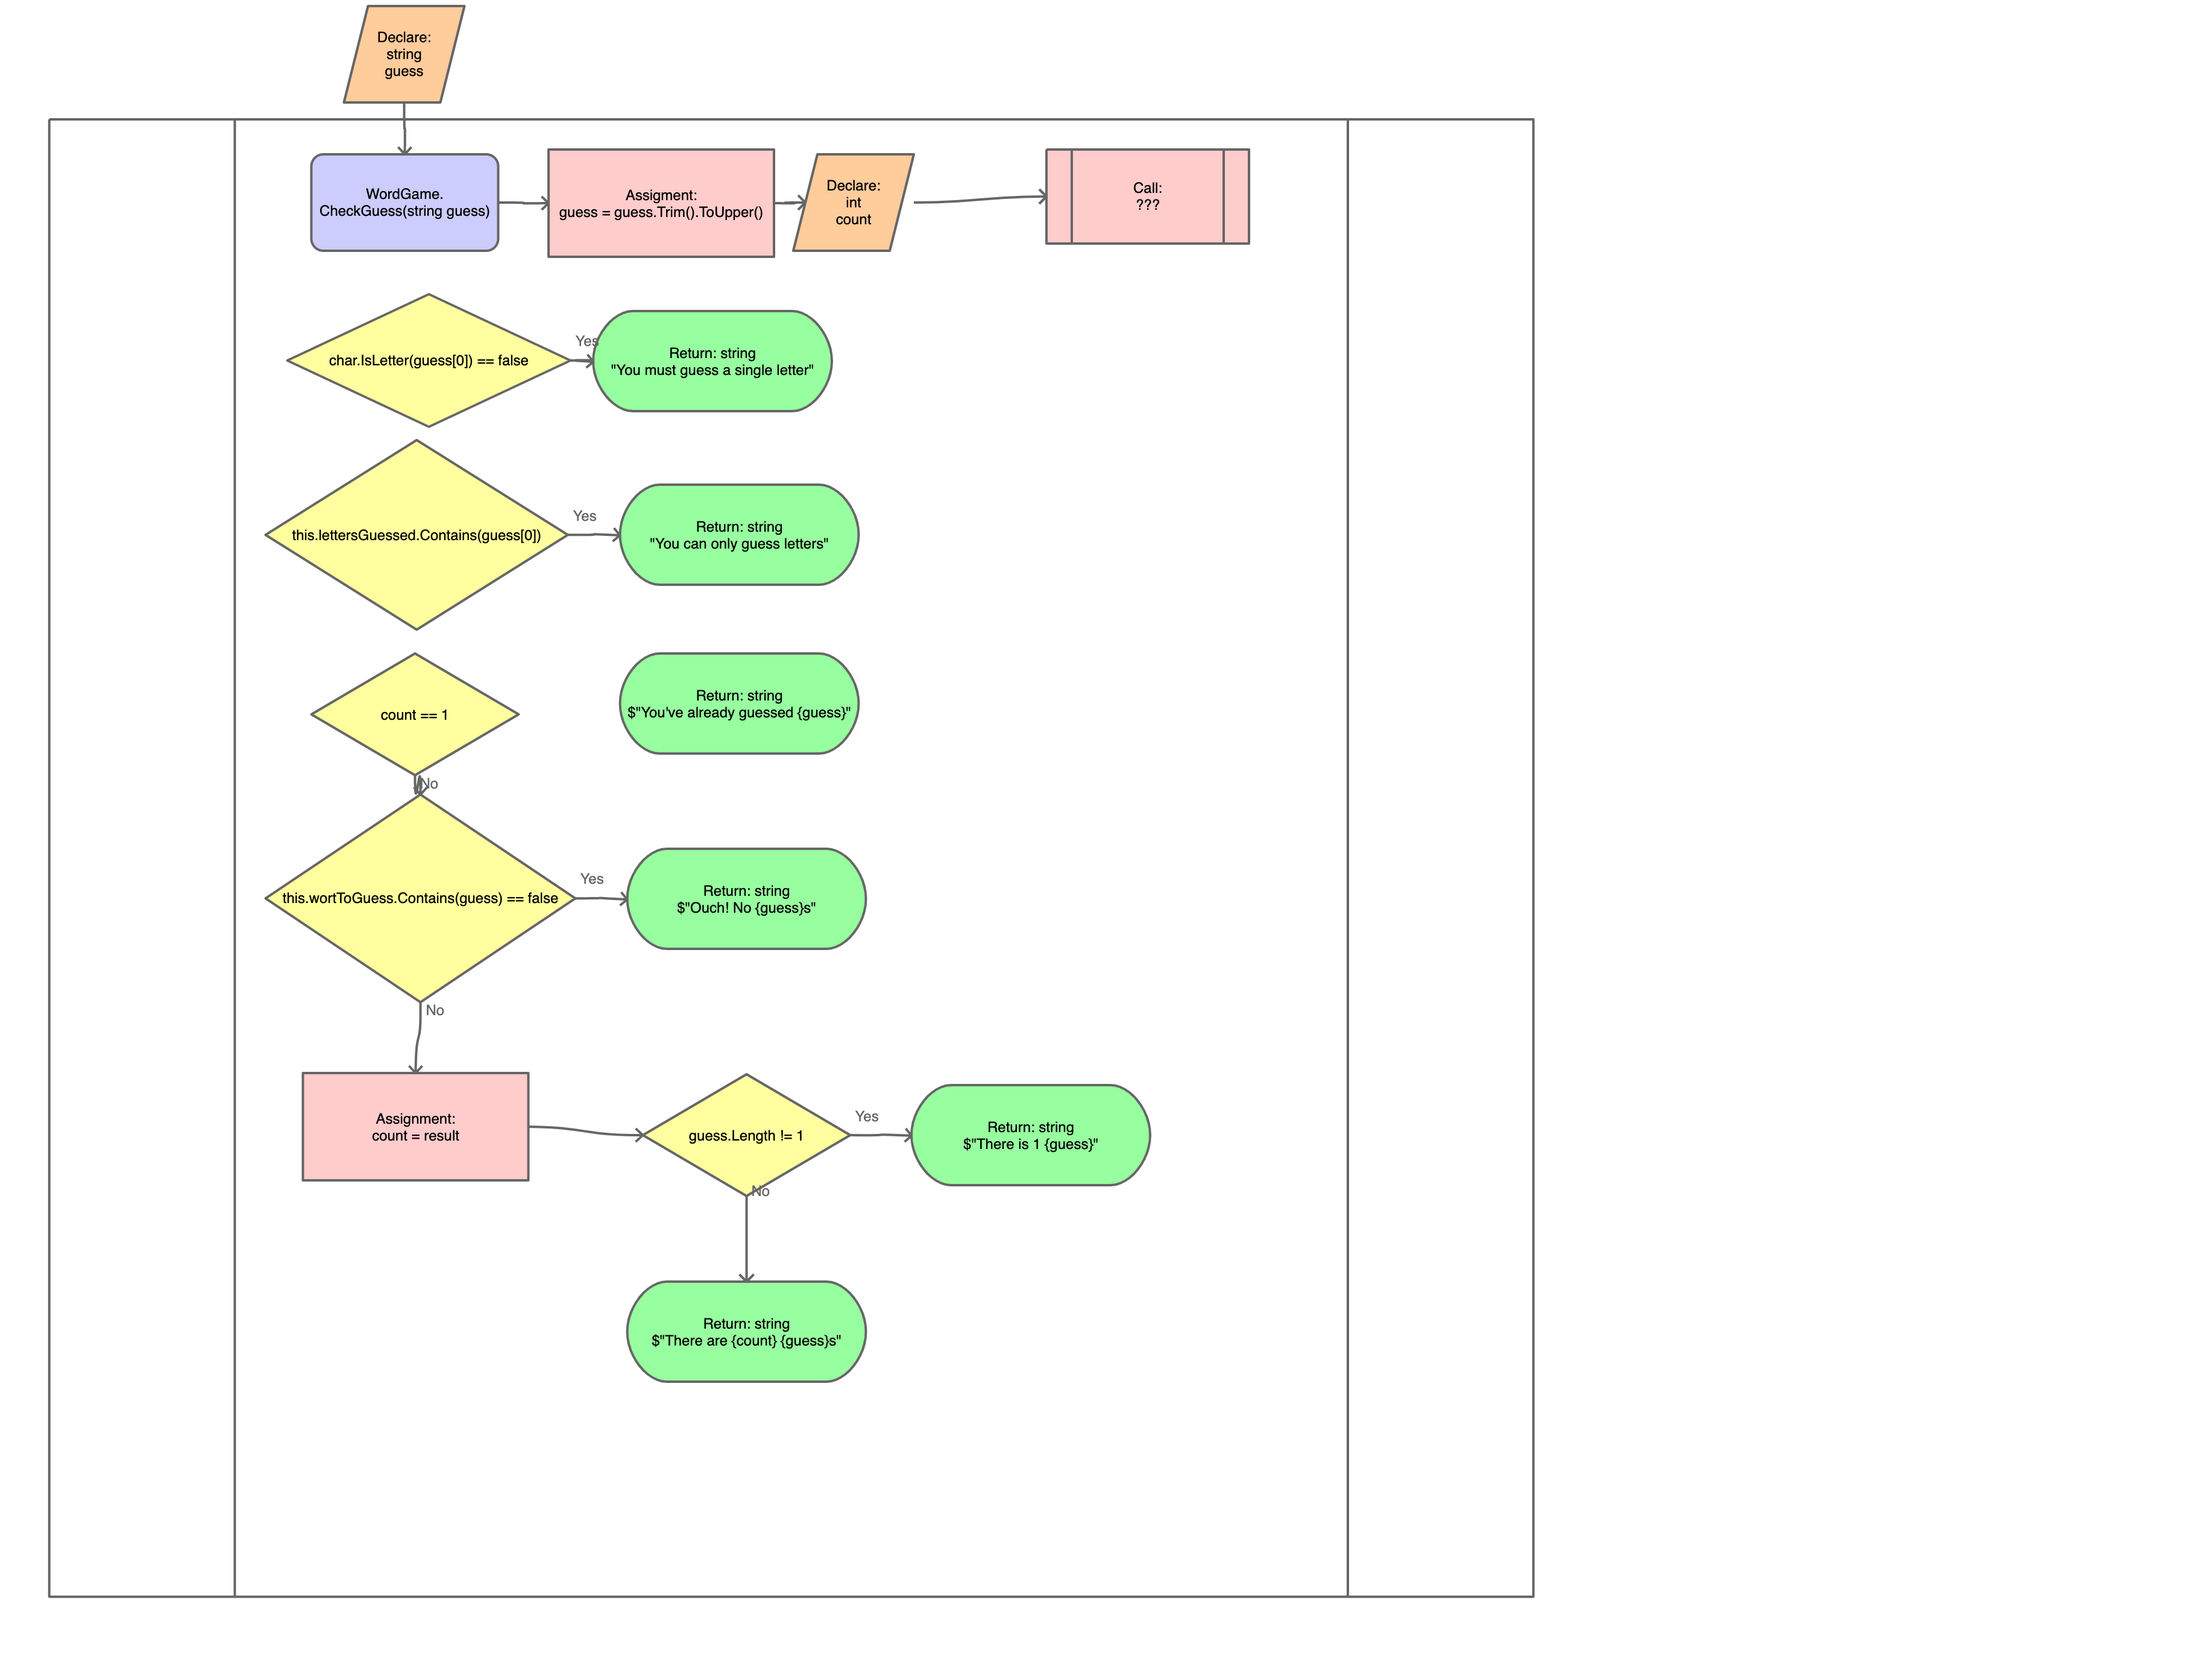
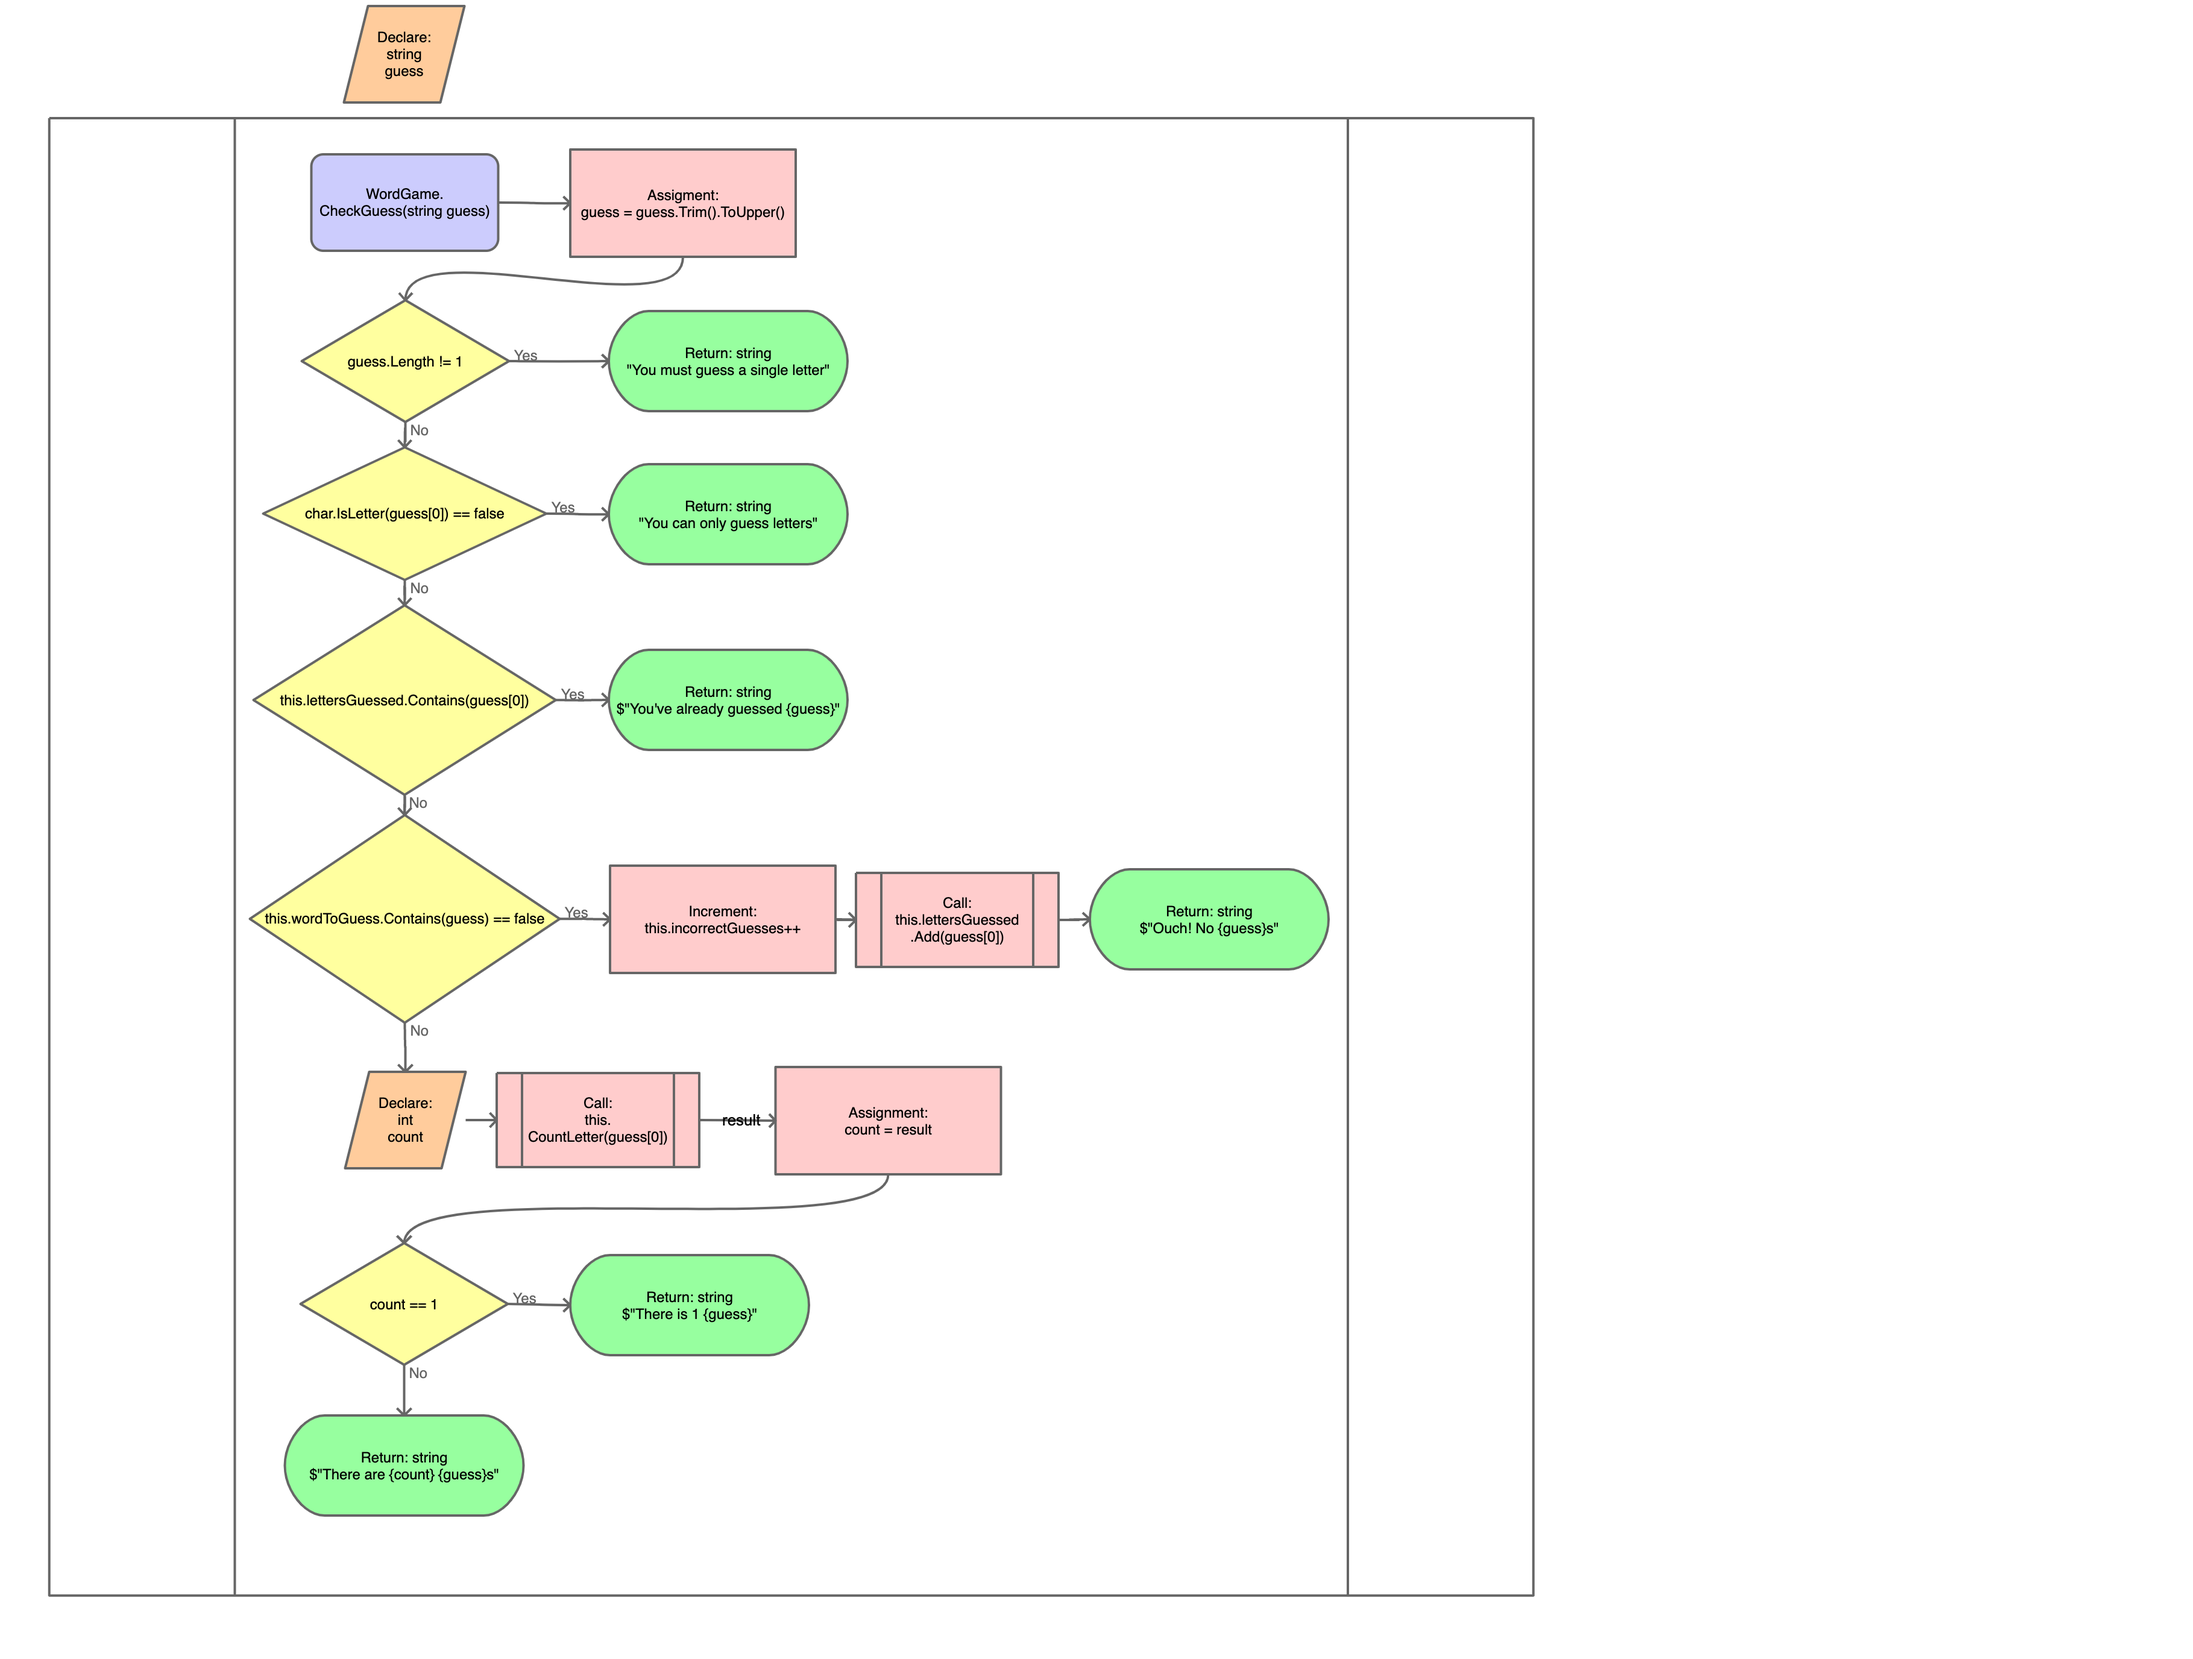
SI

Changed region(s): [[0.0932, 0.1562, 0.6212, 0.9375], [0.4659, 0.0625, 0.5902, 0.1562], [0.2485, 0.0938, 0.4349, 0.1562]]

diff --git a/WordGuesser/README.md b/WordGuesser/README.md
@@ -27,7 +27,7 @@ the number of incorrect guesses that are allowed.
         {
             if (guessLimit <= 0)
             {
-                throw new ArgumentException($"Illegal guessLimit '{guessLimit}'. The guess limit must be greater than 0.");
+                throw new ArgumentExcept`ion($"Illegal guessLimit '{guessLimit}'. The guess limit must be greater than 0.");
             }
 
             foreach (char c in wordToGuess)
@@ -91,32 +91,30 @@ and updating the game state as necessary.
 8. If the letter is correct and appears multiple times, returns "There are
    {count} {guess}s".
 
-TODO: Add Image of flowchart
+![check guess](../diagrams/checkguessstring_guess.png)
 
 ### CountLetter(char guess)
 
 Counts the number of times the specified character appears in the word to be
 guessed. The case of the letter specified is ignored.
 
-![Count Letter Flowchart](../diagrams/countletterchar_guess.png)
-
+![count letter](../diagrams/countletterchar_guess.png)
 ### GetGuessedLetters()
 
 Returns a string containing each letter that has been guessed in the order that
 they were guessed.
 
-TODO: Add Image of flowchart
-![Count Letter Flowchart](/diagrams/getguessedletters.png)
+![get guessed letter](../diagrams/getguessedletters.png)
+
 
 ### GetFullWord()
 
 Returns the word that is to be guessed without any missing letters.
 
-TODO: Add Image of flowchart
 
 ### GetWord()
 
 Returns the word that is to be guessed with each letter that has not yet been
 guessed replaced with an underscore.
 
-TODO: Add Image of flowchart
+![get word](../diagrams/getword.png)
